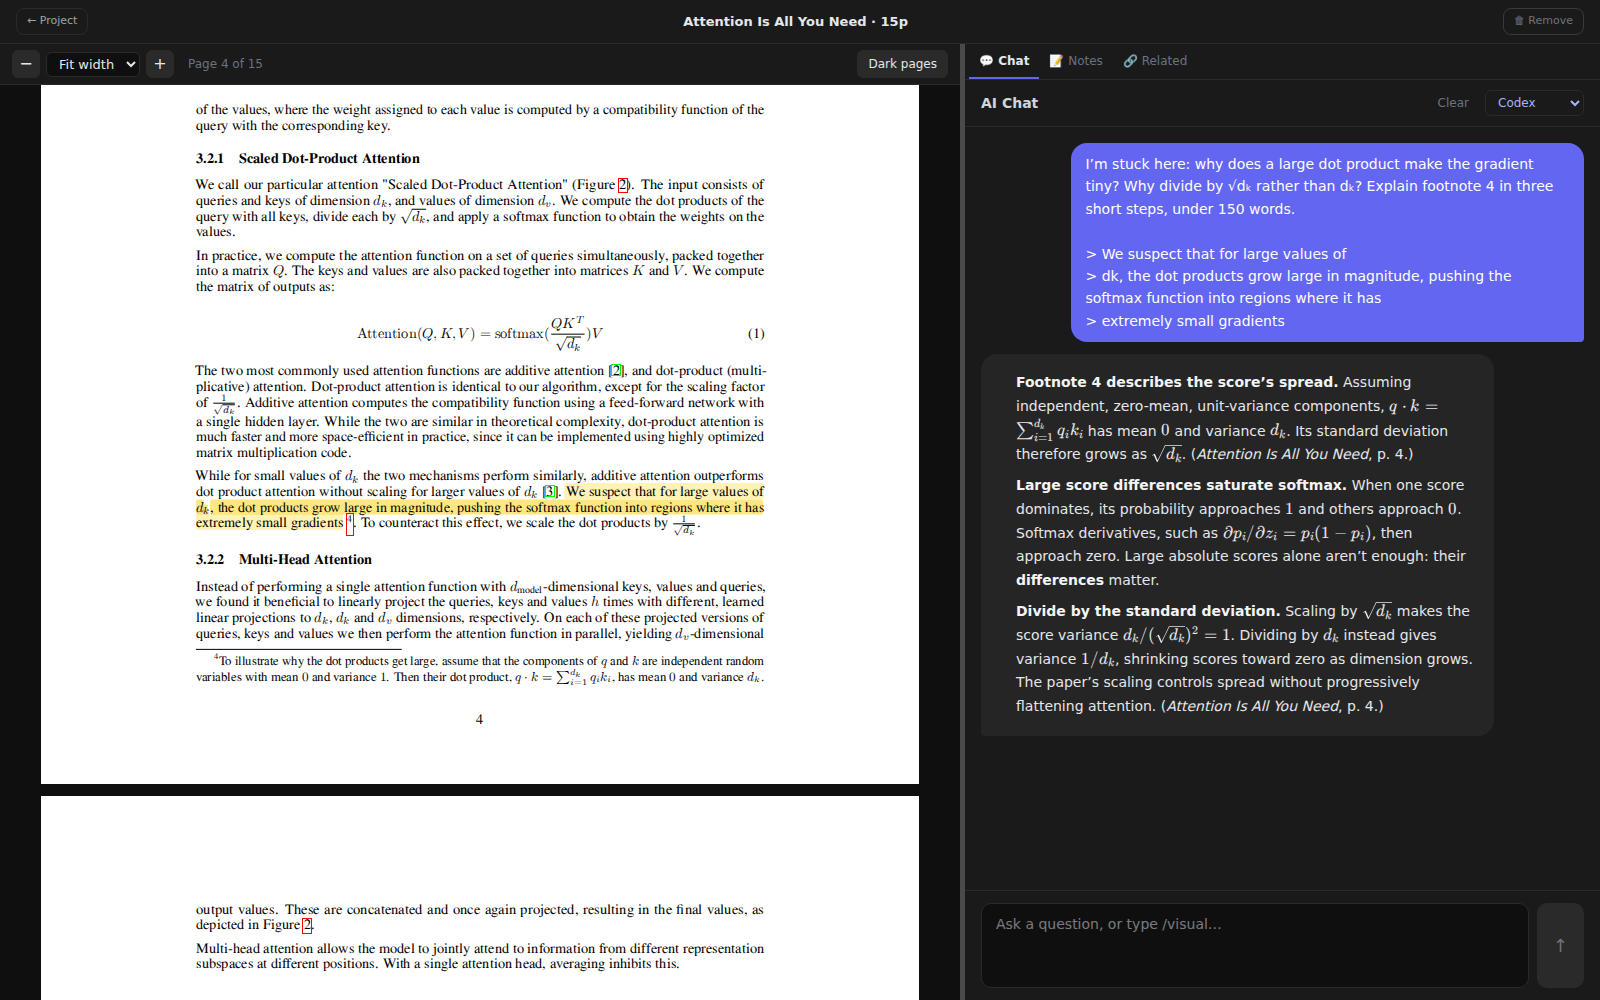
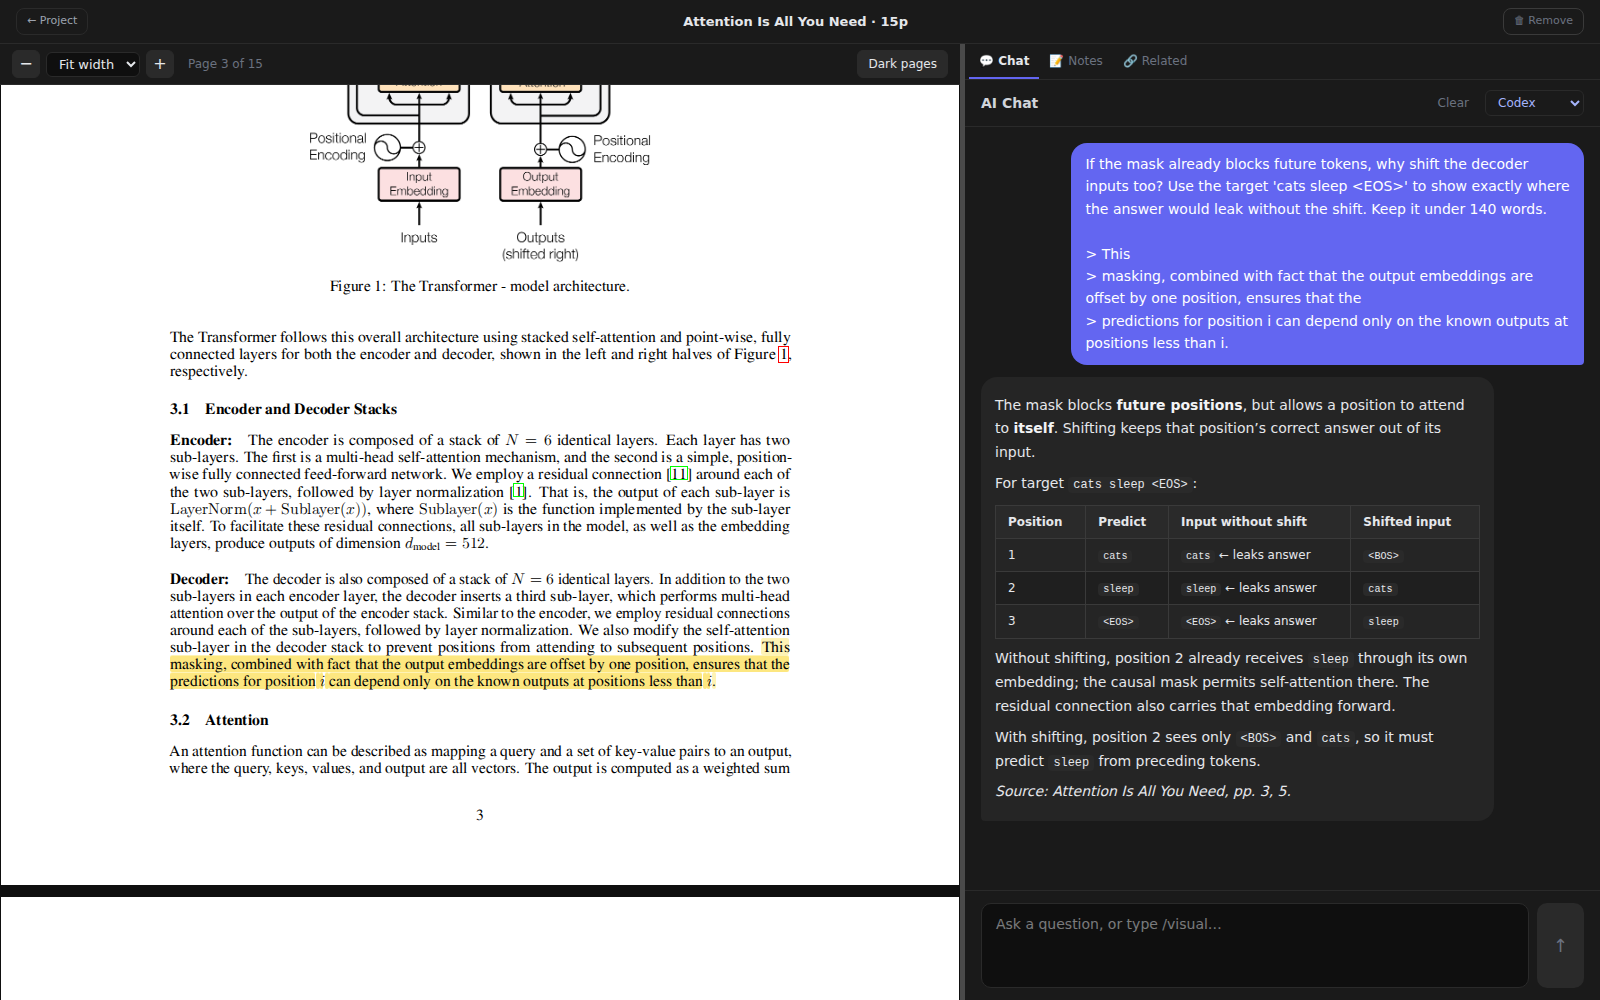
docs: show distinct reading obstacles in showcase screenshots

Changed region(s): [[0.0, 0.062, 1.0, 1.0], [0.6875, 0.155, 0.9688, 0.217]]

diff --git a/scripts/capture-visual-example.ts b/scripts/capture-visual-example.ts
@@ -1,7 +1,8 @@
 // Capture existing, genuinely generated reading sessions from a running pdfpal server.
-// Usage: npx tsx scripts/capture-visual-example.ts BASE_URL PROJECT CHAT_SOURCE VISUAL_SOURCE VISUAL_ID
+// Usage: npx tsx scripts/capture-visual-example.ts BASE_URL PROJECT CHAT_SOURCE VISUAL_SOURCE VISUAL_ID [--chat-only]
 // Import Attention Is All You Need (https://arxiv.org/pdf/1706.03762v7), select the
-// tiny-gradient passage on page 4, and ask the questions recorded in
+// decoder input-shift passage on page 3 and tiny-gradient passage on page 4,
+// and ask the questions recorded in
 // screenshots/paper-reading-example.json before running this capture.
 // No API mocking, fabricated answers, or changes to the app's DOM/styles.
 import { chromium, expect } from '@playwright/test'
@@ -10,6 +11,7 @@ import { visualDefinition, type VisualRecord } from '../src/shared/visual.js'
 import { visualHtml } from '../frontend/src/lib/visual-html.js'
 
 const [base, project, chatSource, visualSource, visualId] = process.argv.slice(2)
+const chatOnly = process.argv.includes('--chat-only')
 if (![base, project, chatSource, visualSource, visualId].every(Boolean)) {
   throw new Error('Supply BASE_URL PROJECT CHAT_SOURCE VISUAL_SOURCE VISUAL_ID')
 }
@@ -26,7 +28,7 @@ const visualChat = await get(`/sources/${visualSource}/chat`)
 const browser = await chromium.launch()
 try {
   const page = await browser.newPage({viewport: {width: 1600, height: 1000}, deviceScaleFactor: 1})
-  async function openReader(source: string, dividerX = 960) {
+  async function openReader(source: string, pageNumber: number, headingText: string, dividerX: number, headingY: number) {
     await page.goto(`${base}/projects/${project}/sources/${source}`)
     await page.locator('[data-pdf-page="1"] canvas').waitFor()
     // Resize with the actual divider, keeping the PDF and explanation readable.
@@ -35,49 +37,52 @@ try {
     if (!box) throw new Error('Reader divider not found')
     await page.mouse.move(box.x + box.width / 2, 450)
     await page.mouse.down(); await page.mouse.move(dividerX, 450); await page.mouse.up()
-    await page.locator('[data-pdf-page="4"]').evaluate(e => e.scrollIntoView({block:'start'}))
-    const heading = page.locator('[data-pdf-page="4"] .textLayer span').filter({hasText:/^Scaled Dot-Product Attention$/}).last()
+    await page.locator(`[data-pdf-page="${pageNumber}"]`).evaluate(e => e.scrollIntoView({block:'start'}))
+    const heading = page.locator(`[data-pdf-page="${pageNumber}"] .textLayer span`).filter({hasText:new RegExp(`^${headingText}$`)}).last()
     await heading.waitFor()
-    // Place section 3.2.1, its equation, selected paragraph and footnote in view.
-    await heading.evaluate(e => {
+    // Keep the relevant section and selected passage together in view.
+    await heading.evaluate((e, y) => {
       const area = document.querySelector('[data-testid="pdf-scroll-area"]')!
-      area.scrollTop += e.getBoundingClientRect().top - 150
-    })
+      area.scrollTop += e.getBoundingClientRect().top - y
+    }, headingY)
     await page.getByRole('combobox').filter({has:page.getByRole('option',{name:'Codex',exact:true})}).selectOption('codex')
     await page.evaluate(() => document.fonts.ready)
-    await expect(page.getByTestId('page-progress')).toHaveText('Page 4 of 15')
+    await expect(page.getByTestId('page-progress')).toHaveText(`Page ${pageNumber} of 15`)
   }
-  await openReader(chatSource!)
+  await openReader(chatSource!, 3, 'Encoder and Decoder Stacks', 960, 400)
   if (await page.locator('.katex-error').count()) throw new Error('Chat contains a math rendering error')
   await page.screenshot({path:'screenshots/1-reader.png'})
 
-  await page.setViewportSize({width:1600,height:1100})
-  await openReader(visualSource!, 1040)
-  const card = page.locator('.visual-card').filter({has:page.getByRole('heading',{name:record.definition!.title,exact:true})}).last()
-  await card.locator(':scope > .visual-story svg').waitFor()
-  // Scroll only the chat pane, leaving the selected PDF passage in view.
-  await card.evaluate(e => {
-    let parent = e.parentElement
-    while (parent && getComputedStyle(parent).overflowY !== 'auto') parent = parent.parentElement
-    if (!parent) throw new Error('Chat scroll container not found')
-    parent.scrollTop += e.getBoundingClientRect().top - parent.getBoundingClientRect().top - 8
-  })
-  await page.screenshot({path:'screenshots/9-visual-explanation.png'})
-  // Check all generated steps in the real UI, including navigation back.
-  const next = card.getByRole('button',{name:'Next step',exact:true}).first()
-  for(let i=1; i<record.definition!.steps.length; i++) await next.click()
-  if (!await next.isDisabled()) throw new Error('Last-step navigation failed')
-  const previous = card.getByRole('button',{name:'Previous step',exact:true}).first()
-  for(let i=1; i<record.definition!.steps.length; i++) await previous.click()
-  await card.locator(':scope > .visual-story').getByRole('button',{name:'B',exact:true}).click()
-  await expect(card.locator(':scope > .visual-story .visual-detail')).toBeVisible()
-  await writeFile('screenshots/9-visual-explanation.html',visualHtml(record))
+  if (!chatOnly) {
+    await page.setViewportSize({width:1600,height:1100})
+    await openReader(visualSource!, 4, 'Scaled Dot-Product Attention', 1040, 150)
+    const card = page.locator('.visual-card').filter({has:page.getByRole('heading',{name:record.definition!.title,exact:true})}).last()
+    await card.locator(':scope > .visual-story svg').waitFor()
+    // Scroll only the chat pane, leaving the selected PDF passage in view.
+    await card.evaluate(e => {
+      let parent = e.parentElement
+      while (parent && getComputedStyle(parent).overflowY !== 'auto') parent = parent.parentElement
+      if (!parent) throw new Error('Chat scroll container not found')
+      parent.scrollTop += e.getBoundingClientRect().top - parent.getBoundingClientRect().top - 8
+    })
+    await page.screenshot({path:'screenshots/9-visual-explanation.png'})
+    // Check all generated steps in the real UI, including navigation back.
+    const next = card.getByRole('button',{name:'Next step',exact:true}).first()
+    for(let i=1; i<record.definition!.steps.length; i++) await next.click()
+    if (!await next.isDisabled()) throw new Error('Last-step navigation failed')
+    const previous = card.getByRole('button',{name:'Previous step',exact:true}).first()
+    for(let i=1; i<record.definition!.steps.length; i++) await previous.click()
+    await card.locator(':scope > .visual-story').getByRole('button',{name:'B',exact:true}).click()
+    await expect(card.locator(':scope > .visual-story .visual-detail')).toBeVisible()
+    await writeFile('screenshots/9-visual-explanation.html',visualHtml(record))
+  }
   const turn = visualChat.messages.find((m: {visual_id:string})=>m.visual_id===visualId)
   const questionIndex = visualChat.messages.indexOf(turn)-1
   await writeFile('screenshots/paper-reading-example.json',JSON.stringify({
-    paper:{title:'Attention Is All You Need',url:'https://arxiv.org/pdf/1706.03762v7',page:4,section:'3.2.1',footnote:4},
-    provenance:'Real PDF imported through pdfpal; passage highlighted in the browser; questions submitted through the reader to the authenticated Codex CLI. Responses are unedited. The visual was refined with a second request for clearer labels. Screenshots show the actual PDF reader.',
+    paper:{title:'Attention Is All You Need',url:'https://arxiv.org/pdf/1706.03762v7'},
+    passages:{chat:{page:3,section:'3.1',topic:'Decoder masking and shifted inputs'},visual:{page:4,section:'3.2.1',footnote:4,topic:'Scaled dot-product attention and softmax saturation'}},
+    provenance:'Real PDF imported through pdfpal; two different passages highlighted in the browser; questions submitted through the reader to the authenticated Codex CLI. Responses are unedited. The visual was refined with a second request for clearer labels. Screenshots show the actual PDF reader.',
     chat:chat.messages, visualQuestion:visualChat.messages[questionIndex]?.content, visual:record,
   },null,2)+'\n')
-  console.log('Captured both real PDF reading sessions; validated visual schema and step navigation.')
+  console.log(chatOnly ? 'Captured the decoder reading session; updated provenance.' : 'Captured both real PDF reading sessions; validated visual schema and step navigation.')
 } finally { await browser.close() }

diff --git a/README.md b/README.md
@@ -16,17 +16,17 @@ Available as a **Windows desktop app** or a **CLI and browser reader on Linux/WS
 
 ### Read with AI beside the page
 
-Select the passage you're stuck on and work through it beside the paper. Here, a reader asks why attention scores are divided by √dₖ and how that prevents tiny gradients—the reasoning compressed into §3.2.1 and footnote 4 of [*Attention Is All You Need*](https://arxiv.org/pdf/1706.03762v7).
+Select the passage you're stuck on and work through it beside the paper. In §3.1 of [*Attention Is All You Need*](https://arxiv.org/pdf/1706.03762v7), the decoder uses both masking and shifted inputs. Why are both needed? A reader asks for a concrete token sequence showing how the answer would leak without the shift.
 
-![Page 4 of Attention Is All You Need with the tiny-gradient passage highlighted beside a focused explanation of softmax saturation and the square-root scaling factor](screenshots/1-reader.png)
+![Page 3 of Attention Is All You Need with the decoder masking and input-shift passage highlighted beside an explanation of answer leakage using a short target sequence](screenshots/1-reader.png)
 
 ### Turn difficult concepts into visual explanations
 
-Use `/visual` on the same passage to see the missing intuition. The graph compares two points on a softmax curve: a large score gap in the nearly flat region and a scaled gap in a steeper region. The highlighted paragraph and its footnote stay in view while you explore the explanation.
+Further into the paper, §3.2.1 raises a different question: why divide attention scores by √dₖ? Use `/visual` to see the missing intuition. The graph compares a large score gap in softmax's nearly flat region with a scaled gap in a steeper region. The highlighted paragraph and footnote 4 stay in view while you explore the explanation.
 
 ![Actual PDF reader showing the selected scaling passage beside an interactive softmax graph comparing the flat and steep regions](screenshots/9-visual-explanation.png)
 
-Both examples were generated through pdfpal using Codex and the selected PDF passage. The graph's numbers are a worked example, rather than measurements from the paper. Step through the explanation, click shapes for details, or [download the interactive HTML](screenshots/9-visual-explanation.html) to explore all three steps offline. Visual explanations also work in project chat and the Kindle companion.
+Both examples were generated through pdfpal using Codex and their selected PDF passages. The graph's numbers are a worked example, rather than measurements from the paper. Step through the explanation, click shapes for details, or [download the interactive HTML](screenshots/9-visual-explanation.html) to explore all three steps offline. Visual explanations also work in project chat and the Kindle companion.
 
 ### Build a research library
 
